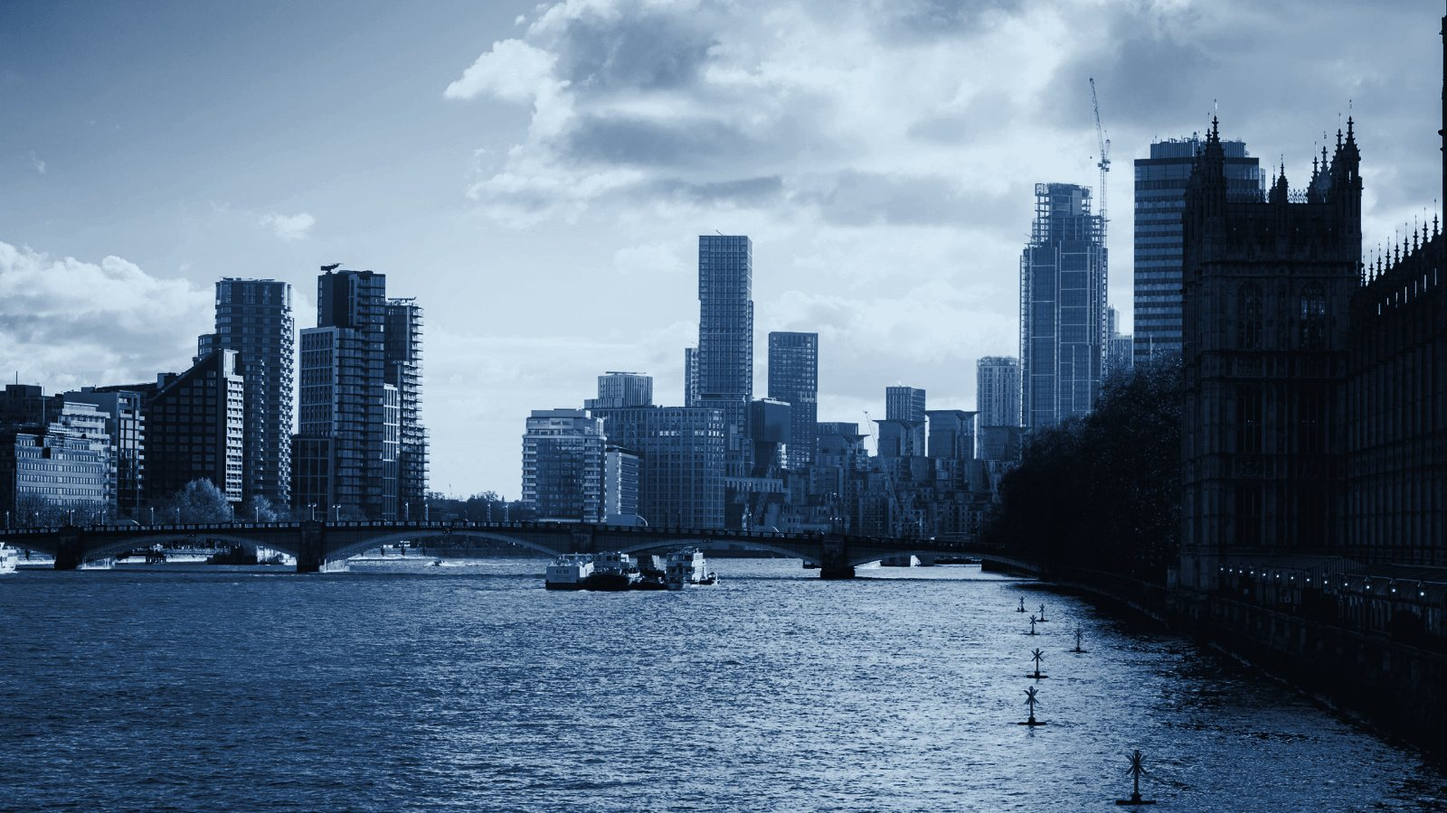
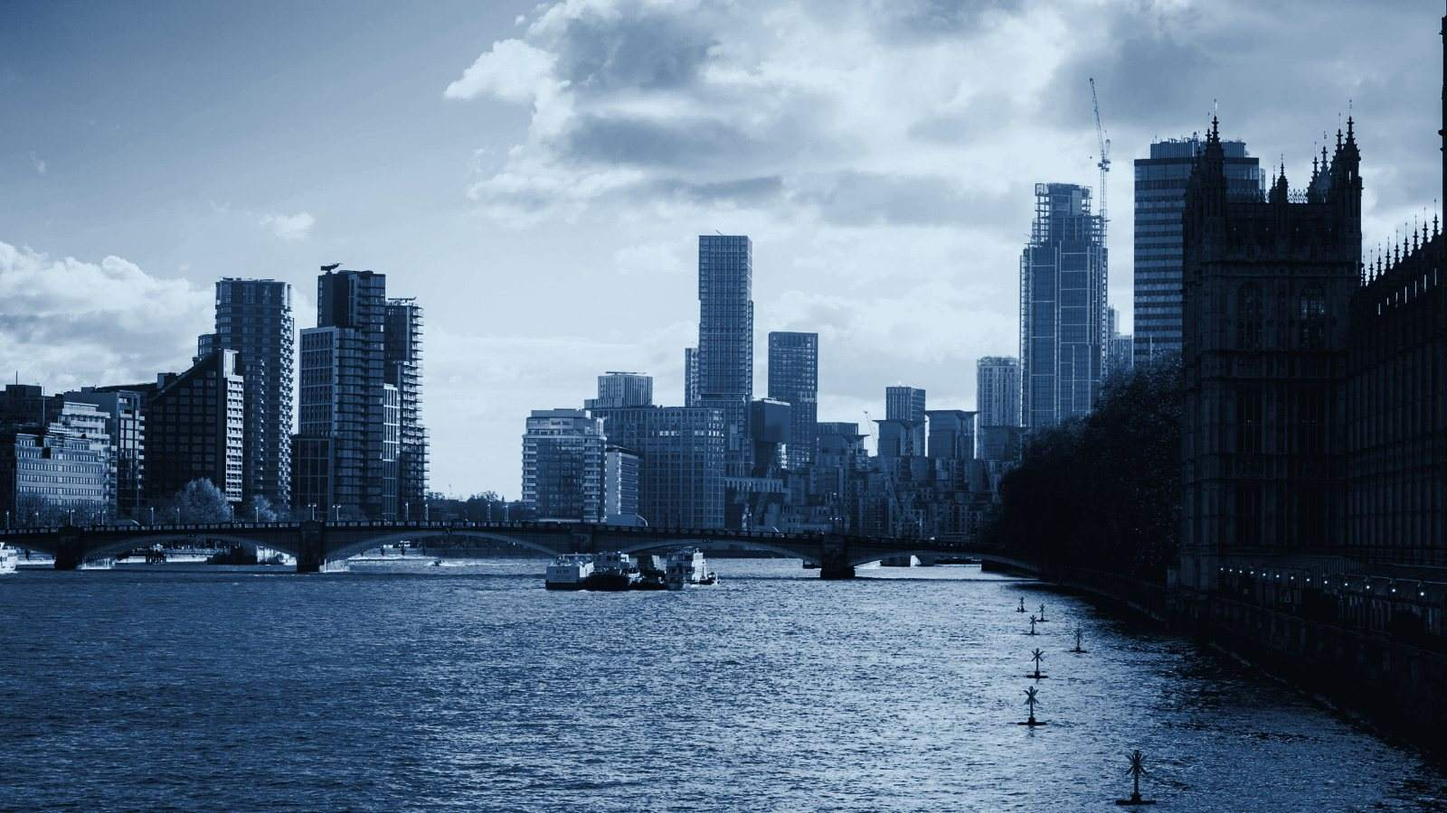
Search and AI answers: labels, titles, questions, old addresses forwarded, smaller pictures
Structured data on every main page (the business, Aneal, the services, the platform
and its three prices, and the questions), clearer page titles, a questions section
on the home, CV score and platform pages, the old Kajabi addresses forwarding to
their nearest page, llms.txt, a dated sitemap and lighter background pictures.
Aneal: 'Please can you nail the SEO / GEO and launch it'.

Claude-Session: https://claude.ai/code/session_011VD4uGPY8jUHXt17ZwRrVE

diff --git a/job-search-os.html b/job-search-os.html
@@ -3,14 +3,14 @@
 <head>
 <meta charset="utf-8">
 <meta name="viewport" content="width=device-width, initial-scale=1">
-<title>Job Search OS | CareerVive</title>
+<title>Job Search OS: your CV, job search and interview prep in one platform | CareerVive</title>
 <link rel="canonical" href="https://www.careervive.io/job-search-os">
 <link rel="icon" type="image/png" href="/img/icon-32.png">
 <link rel="apple-touch-icon" href="/img/icon-180.png">
 <meta name="theme-color" content="#05080D">
 <meta property="og:type" content="website">
 <meta property="og:site_name" content="CareerVive">
-<meta property="og:title" content="Job Search OS | CareerVive">
+<meta property="og:title" content="Job Search OS: your CV, job search and interview prep in one platform | CareerVive">
 <meta property="og:description" content="Job Search OS is the CareerVive platform. It draws out the work you are proud of, writes your CV for the job you want, and keeps your whole job search in one place.">
 <meta property="og:url" content="https://www.careervive.io/job-search-os">
 <meta property="og:image" content="https://www.careervive.io/img/og.jpg">
@@ -559,7 +559,8 @@ a.cv-wk b svg{flex:0 0 auto;color:var(--a)}
 .cv-bg-teach{background-image:url(/img/cv-teach.jpg)}.cv-fl-teach::after{background-image:url(/img/cv-teach.jpg)}
 .cv-bg-aneal{background-image:url(/img/cv-aneal.jpg)}.cv-fl-aneal::after{background-image:url(/img/cv-aneal.jpg)}
 .cv-bg-aneals{background-image:url(/img/cv-aneal-s.jpg)}.cv-fl-aneals::after{background-image:url(/img/cv-aneal-s.jpg)}
-.cv-stats.cv-jos{grid-template-columns:repeat(2,minmax(0,1fr))}.cv-stats.cv-jos .cv-stat b{font-size:clamp(21px,2vw,26px);line-height:1.25;letter-spacing:0}@media(max-width:760px){.cv-stats.cv-jos{grid-template-columns:1fr}}.cv-stats.cv-jos>.rv:last-child:nth-child(odd){grid-column:1/-1}.cv-plans{display:grid;grid-template-columns:repeat(3,minmax(0,1fr));gap:18px;margin-bottom:32px}.cv-plan{height:100%;box-sizing:border-box;background:#FFFFFF;border:1px solid rgba(20,48,78,0.16);border-top:4px solid #2D5380;border-radius:20px;padding:28px 26px;color:#14304E}.cv-plan-n{font-family:"PT Serif",Georgia,serif;font-weight:700;font-size:22px}.cv-plan-p{font-family:"PT Serif",Georgia,serif;font-weight:700;font-size:44px;line-height:1.1;margin-top:10px}.cv-plan-p span{font-family:Lato,system-ui,sans-serif;font-weight:400;font-size:16px}.cv-plan-t{font-size:15px;margin-top:4px;opacity:0.8}.cv-plan ul{margin:18px 0 0;padding-left:20px;font-size:16px;line-height:1.5}.cv-plan li{margin-bottom:8px}@media(max-width:860px){.cv-plans{grid-template-columns:1fr}}</style>
+.cv-stats.cv-jos{grid-template-columns:repeat(2,minmax(0,1fr))}.cv-stats.cv-jos .cv-stat b{font-size:clamp(21px,2vw,26px);line-height:1.25;letter-spacing:0}@media(max-width:760px){.cv-stats.cv-jos{grid-template-columns:1fr}}.cv-stats.cv-jos>.rv:last-child:nth-child(odd){grid-column:1/-1}.cv-plans{display:grid;grid-template-columns:repeat(3,minmax(0,1fr));gap:18px;margin-bottom:32px}.cv-plan{height:100%;box-sizing:border-box;background:#FFFFFF;border:1px solid rgba(20,48,78,0.16);border-top:4px solid #2D5380;border-radius:20px;padding:28px 26px;color:#14304E}.cv-plan-n{font-family:"PT Serif",Georgia,serif;font-weight:700;font-size:22px}.cv-plan-p{font-family:"PT Serif",Georgia,serif;font-weight:700;font-size:44px;line-height:1.1;margin-top:10px}.cv-plan-p span{font-family:Lato,system-ui,sans-serif;font-weight:400;font-size:16px}.cv-plan-t{font-size:15px;margin-top:4px;opacity:0.8}.cv-plan ul{margin:18px 0 0;padding-left:20px;font-size:16px;line-height:1.5}.cv-plan li{margin-bottom:8px}@media(max-width:860px){.cv-plans{grid-template-columns:1fr}}.cv-faq{max-width:820px;display:block}.cv-faq .cv-h2{margin:0 0 22px}.cv-faq details{border-top:1px solid rgba(20,48,78,0.18);padding:16px 0}.cv-faq details:last-child{border-bottom:1px solid rgba(20,48,78,0.18)}.cv-faq summary{cursor:pointer;font-family:"PT Serif",Georgia,serif;font-weight:700;font-size:19px;line-height:1.35}.cv-faq p{margin:10px 0 0;font-size:17px;line-height:1.6}</style>
+<script type="application/ld+json">{"@context": "https://schema.org", "@graph": [{"@type": "SoftwareApplication", "name": "Job Search OS", "applicationCategory": "BusinessApplication", "operatingSystem": "Web", "url": "https://www.careervive.io/job-search-os", "description": "The CareerVive platform: discover your STORY, write your CV, search for jobs across LinkedIn, Reed, Indeed and more, and write cover letters and application answers from your own evidence.", "publisher": {"@id": "https://www.careervive.io/#org"}, "offers": [{"@type": "Offer", "name": "Membership", "price": "49.00", "priceCurrency": "GBP", "url": "https://www.careervive.io/job-search-os#plans", "description": "Per month. Your STORY, your CV, job search and tracking."}, {"@type": "Offer", "name": "Premium", "price": "69.00", "priceCurrency": "GBP", "url": "https://www.careervive.io/job-search-os#plans", "description": "Per month. Adds cover letters and application answers."}, {"@type": "Offer", "name": "Premium+", "price": "99.00", "priceCurrency": "GBP", "url": "https://www.careervive.io/job-search-os#plans", "description": "Per month. Adds screening and interview prep, and the Coach for your whole search."}]}, {"@type": "FAQPage", "mainEntity": [{"@type": "Question", "name": "What is Job Search OS?", "acceptedAnswer": {"@type": "Answer", "text": "Job Search OS is the CareerVive platform. It draws out the work you are proud of, writes your CV for the job you want, searches for roles, and writes your cover letters and application answers from the same evidence."}}, {"@type": "Question", "name": "How much is Job Search OS?", "acceptedAnswer": {"@type": "Answer", "text": "Membership is £49 a month, or £119 for three months. Premium is £69 a month, or £149 for three months. Premium+ is £99 a month, or £249 for three months. You can cancel at any time."}}, {"@type": "Question", "name": "What is the STORY method?", "acceptedAnswer": {"@type": "Answer", "text": "STORY is Aneal Birdi's way of capturing your best work in your own words: the Situation, the Task, the Obstacles, the Results and why it mattered. Your CV, cover letters and answers are written from your STORYs."}}, {"@type": "Question", "name": "Which job sites does it search?", "acceptedAnswer": {"@type": "Answer", "text": "One search looks across LinkedIn, Reed, Indeed, the UK job boards, agencies and employers' own pages, and shows each role once."}}, {"@type": "Question", "name": "Does it make anything up on my CV?", "acceptedAnswer": {"@type": "Answer", "text": "No. Everything is written from what you have told the Coach, and every figure is checked against what you said."}}, {"@type": "Question", "name": "How do I start?", "acceptedAnswer": {"@type": "Answer", "text": "Start with the free CV score. Your score opens your account on the platform."}}, {"@type": "Question", "name": "What happens to my data?", "acceptedAnswer": {"@type": "Answer", "text": "Your CV, your STORYs and your conversations with the Coach are used for your job search and nothing else. You can download or delete everything at any time."}}]}]}</script>
 </head>
 <body>
 <div style="background: radial-gradient(ellipse 60% 40% at 15% 20%, rgba(45,83,128,0.24), transparent 60%), radial-gradient(ellipse 55% 45% at 85% 65%, rgba(74,143,178,0.16), transparent 60%), linear-gradient(180deg, #05080D 0%, #070B12 55%, #05070A 100%); background-attachment: fixed; color: #F5F3EE; font-family: Lato, system-ui, sans-serif; overflow-x: hidden">
@@ -755,6 +756,19 @@ a.cv-wk b svg{flex:0 0 auto;color:var(--a)}
 <a href="/rise" class="cv-wk"><b><span>Coaching</span><svg width="18" height="18" viewBox="0 0 24 24" fill="none" stroke="currentColor" stroke-width="2.4" stroke-linecap="round" stroke-linejoin="round" aria-hidden="true"><path d="M5 12h14"></path><path d="M13 6l6 6-6 6"></path></svg></b><span>Rise, reposition or build, when you want us alongside you.</span></a>
 </div>
 </div>
+</div>
+</section>
+
+<section id="questions" class="cv-lt">
+<div class="cv-w cv-faq">
+<h2 class="cv-h2">Questions people ask.</h2>
+<details><summary>What is Job Search OS?</summary><p>Job Search OS is the CareerVive platform. It draws out the work you are proud of, writes your CV for the job you want, searches for roles, and writes your cover letters and application answers from the same evidence.</p></details>
+<details><summary>How much is Job Search OS?</summary><p>Membership is £49 a month, or £119 for three months. Premium is £69 a month, or £149 for three months. Premium+ is £99 a month, or £249 for three months. You can cancel at any time.</p></details>
+<details><summary>What is the STORY method?</summary><p>STORY is Aneal Birdi's way of capturing your best work in your own words: the Situation, the Task, the Obstacles, the Results and why it mattered. Your CV, cover letters and answers are written from your STORYs.</p></details>
+<details><summary>Which job sites does it search?</summary><p>One search looks across LinkedIn, Reed, Indeed, the UK job boards, agencies and employers' own pages, and shows each role once.</p></details>
+<details><summary>Does it make anything up on my CV?</summary><p>No. Everything is written from what you have told the Coach, and every figure is checked against what you said.</p></details>
+<details><summary>How do I start?</summary><p>Start with the free CV score. Your score opens your account on the platform.</p></details>
+<details><summary>What happens to my data?</summary><p>Your CV, your STORYs and your conversations with the Coach are used for your job search and nothing else. You can download or delete everything at any time.</p></details>
 </div>
 </section>
 

diff --git a/index.html b/index.html
@@ -3,14 +3,14 @@
 <head>
 <meta charset="utf-8">
 <meta name="viewport" content="width=device-width, initial-scale=1">
-<title>CareerVive | We make your career fly</title>
+<title>CareerVive | Career coaching and a job search platform for professionals</title>
 <link rel="canonical" href="https://www.careervive.io/">
 <link rel="icon" type="image/png" href="/img/icon-32.png">
 <link rel="apple-touch-icon" href="/img/icon-180.png">
 <meta name="theme-color" content="#05080D">
 <meta property="og:type" content="website">
 <meta property="og:site_name" content="CareerVive">
-<meta property="og:title" content="CareerVive | We make your career fly">
+<meta property="og:title" content="CareerVive | Career coaching and a job search platform for professionals">
 <meta property="og:description" content="We make your career fly. Building the future of work, starting with you. Rise, reposition or build with Aneal Birdi, and start with a free CV score.">
 <meta property="og:url" content="https://www.careervive.io/">
 <meta property="og:image" content="https://www.careervive.io/img/og.jpg">
@@ -559,7 +559,8 @@ a.cv-wk b svg{flex:0 0 auto;color:var(--a)}
 .cv-bg-teach{background-image:url(/img/cv-teach.jpg)}.cv-fl-teach::after{background-image:url(/img/cv-teach.jpg)}
 .cv-bg-aneal{background-image:url(/img/cv-aneal.jpg)}.cv-fl-aneal::after{background-image:url(/img/cv-aneal.jpg)}
 .cv-bg-aneals{background-image:url(/img/cv-aneal-s.jpg)}.cv-fl-aneals::after{background-image:url(/img/cv-aneal-s.jpg)}
-</style>
+.cv-faq{max-width:820px;display:block}.cv-faq .cv-h2{margin:0 0 22px}.cv-faq details{border-top:1px solid rgba(20,48,78,0.18);padding:16px 0}.cv-faq details:last-child{border-bottom:1px solid rgba(20,48,78,0.18)}.cv-faq summary{cursor:pointer;font-family:"PT Serif",Georgia,serif;font-weight:700;font-size:19px;line-height:1.35}.cv-faq p{margin:10px 0 0;font-size:17px;line-height:1.6}</style>
+<script type="application/ld+json">{"@context": "https://schema.org", "@graph": [{"@type": ["Organization", "ProfessionalService"], "@id": "https://www.careervive.io/#org", "name": "CareerVive", "url": "https://www.careervive.io/", "logo": "https://www.careervive.io/img/cv-logo.png", "image": "https://www.careervive.io/img/og.jpg", "slogan": "We make your career fly.", "description": "CareerVive is career coaching, leadership and AI training, and a job search platform, founded by Aneal Birdi in 2019.", "foundingDate": "2019", "founder": {"@id": "https://www.careervive.io/about#aneal"}, "address": {"@type": "PostalAddress", "addressLocality": "Birmingham", "addressCountry": "GB"}, "areaServed": "GB", "email": "aneal@careervive.io", "sameAs": ["https://uk.trustpilot.com/review/careervive.co.uk"]}, {"@type": "Person", "@id": "https://www.careervive.io/about#aneal", "name": "Aneal Birdi", "jobTitle": "Founder, CareerVive", "url": "https://www.careervive.io/about", "image": "https://www.careervive.io/img/cv-aneal.jpg", "worksFor": {"@id": "https://www.careervive.io/#org"}, "description": "Aneal Birdi founded CareerVive in 2019 after 13 years in investment banking and consulting, including Goldman Sachs. He has had more than 2,000 career conversations since then."}, {"@type": "WebSite", "@id": "https://www.careervive.io/#site", "url": "https://www.careervive.io/", "name": "CareerVive", "publisher": {"@id": "https://www.careervive.io/#org"}}, {"@type": "FAQPage", "mainEntity": [{"@type": "Question", "name": "What is CareerVive?", "acceptedAnswer": {"@type": "Answer", "text": "CareerVive is career coaching, leadership and AI training, and a job search platform. Aneal Birdi founded it in Birmingham in 2019."}}, {"@type": "Question", "name": "Who is Aneal Birdi?", "acceptedAnswer": {"@type": "Answer", "text": "Aneal is the founder of CareerVive. He spent 13 years in investment banking and consulting, including Goldman Sachs, and has had more than 2,000 career conversations since 2019."}}, {"@type": "Question", "name": "What are Rise, Reposition and Build?", "acceptedAnswer": {"@type": "Answer", "text": "They are CareerVive's three coaching paths. Rise is for going higher where you already are. Reposition is for changing direction without starting over. Build is for turning what you know into something that earns."}}, {"@type": "Question", "name": "How do I start with CareerVive?", "acceptedAnswer": {"@type": "Answer", "text": "Start with the free CV score. You add your CV and the job you want, and your score for today's job market and the future one comes to your inbox."}}]}]}</script>
 </head>
 <body>
 <div style="background: radial-gradient(ellipse 60% 40% at 15% 20%, rgba(45,83,128,0.24), transparent 60%), radial-gradient(ellipse 55% 45% at 85% 65%, rgba(74,143,178,0.16), transparent 60%), linear-gradient(180deg, #05080D 0%, #070B12 55%, #05070A 100%); background-attachment: fixed; color: #F5F3EE; font-family: Lato, system-ui, sans-serif; overflow-x: hidden">
@@ -634,6 +635,16 @@ a.cv-wk b svg{flex:0 0 auto;color:var(--a)}
 <a href="/build" class="cv-hpt cv-hpt-build"><span class="cv-hpx"><b>Build</b><span>Turn what you know into something that earns</span></span><svg width="18" height="18" viewBox="0 0 24 24" fill="none" stroke="currentColor" stroke-width="2.4" stroke-linecap="round" stroke-linejoin="round" aria-hidden="true"><path d="M5 12h14"></path><path d="M13 6l6 6-6 6"></path></svg></a>
 </nav>
 </div>
+</div>
+</section>
+
+<section id="questions" class="cv-lt">
+<div class="cv-w cv-faq">
+<h2 class="cv-h2">Questions people ask.</h2>
+<details><summary>What is CareerVive?</summary><p>CareerVive is career coaching, leadership and AI training, and a job search platform. Aneal Birdi founded it in Birmingham in 2019.</p></details>
+<details><summary>Who is Aneal Birdi?</summary><p>Aneal is the founder of CareerVive. He spent 13 years in investment banking and consulting, including Goldman Sachs, and has had more than 2,000 career conversations since 2019.</p></details>
+<details><summary>What are Rise, Reposition and Build?</summary><p>They are CareerVive's three coaching paths. Rise is for going higher where you already are. Reposition is for changing direction without starting over. Build is for turning what you know into something that earns.</p></details>
+<details><summary>How do I start with CareerVive?</summary><p>Start with the free CV score. You add your CV and the job you want, and your score for today's job market and the future one comes to your inbox.</p></details>
 </div>
 </section>
 

diff --git a/cv-score.html b/cv-score.html
@@ -3,14 +3,14 @@
 <head>
 <meta charset="utf-8">
 <meta name="viewport" content="width=device-width, initial-scale=1">
-<title>Free CV score | CareerVive</title>
+<title>Free CV score out of 100 | CareerVive</title>
 <link rel="canonical" href="https://www.careervive.io/cv-score">
 <link rel="icon" type="image/png" href="/img/icon-32.png">
 <link rel="apple-touch-icon" href="/img/icon-180.png">
 <meta name="theme-color" content="#05080D">
 <meta property="og:type" content="website">
 <meta property="og:site_name" content="CareerVive">
-<meta property="og:title" content="Free CV score | CareerVive">
+<meta property="og:title" content="Free CV score out of 100 | CareerVive">
 <meta property="og:description" content="Find out why your CV is not landing as it should. Add your CV and get a free score out of 100 for today's job market and the future one, with the three changes to make first.">
 <meta property="og:url" content="https://www.careervive.io/cv-score">
 <meta property="og:image" content="https://www.careervive.io/img/og.jpg">
@@ -559,7 +559,8 @@ a.cv-wk b svg{flex:0 0 auto;color:var(--a)}
 .cv-bg-teach{background-image:url(/img/cv-teach.jpg)}.cv-fl-teach::after{background-image:url(/img/cv-teach.jpg)}
 .cv-bg-aneal{background-image:url(/img/cv-aneal.jpg)}.cv-fl-aneal::after{background-image:url(/img/cv-aneal.jpg)}
 .cv-bg-aneals{background-image:url(/img/cv-aneal-s.jpg)}.cv-fl-aneals::after{background-image:url(/img/cv-aneal-s.jpg)}
-</style>
+.cv-faq{max-width:820px;display:block}.cv-faq .cv-h2{margin:0 0 22px}.cv-faq details{border-top:1px solid rgba(20,48,78,0.18);padding:16px 0}.cv-faq details:last-child{border-bottom:1px solid rgba(20,48,78,0.18)}.cv-faq summary{cursor:pointer;font-family:"PT Serif",Georgia,serif;font-weight:700;font-size:19px;line-height:1.35}.cv-faq p{margin:10px 0 0;font-size:17px;line-height:1.6}</style>
+<script type="application/ld+json">{"@context": "https://schema.org", "@graph": [{"@type": "Service", "name": "Free CV score", "description": "A free score out of 100 for your CV, for today's job market and the future one, with the three changes to make first.", "url": "https://www.careervive.io/cv-score", "provider": {"@id": "https://www.careervive.io/#org"}, "areaServed": "GB"}, {"@type": "FAQPage", "mainEntity": [{"@type": "Question", "name": "Is the CV score free?", "acceptedAnswer": {"@type": "Answer", "text": "Yes. The CV score is free, and there is one CV score per person."}}, {"@type": "Question", "name": "What do I get with my CV score?", "acceptedAnswer": {"@type": "Answer", "text": "You get a score out of 100 for today's job market and one for the future job market, across four parts: Clarity, Positioning, Future desirability and Strategy. You also get the three changes to make first."}}, {"@type": "Question", "name": "What file can I send?", "acceptedAnswer": {"@type": "Answer", "text": "A Word or PDF file of up to six pages. Send your CV as it is today."}}, {"@type": "Question", "name": "How do I get my score?", "acceptedAnswer": {"@type": "Answer", "text": "You get an email with a link to your score on the CareerVive platform. The link lasts 7 days."}}, {"@type": "Question", "name": "What happens to my CV?", "acceptedAnswer": {"@type": "Answer", "text": "Your score, your report and the text of your CV go into your own space on the CareerVive platform. If you don't open it, it is all deleted after 30 days."}}, {"@type": "Question", "name": "Does a higher score mean I will get interviews?", "acceptedAnswer": {"@type": "Answer", "text": "The score is for your CV. It is never a score for you. A higher score means your CV shows more of you. It is not a promise of interviews."}}]}]}</script>
 </head>
 <body>
 <div style="background: radial-gradient(ellipse 60% 40% at 15% 20%, rgba(45,83,128,0.24), transparent 60%), radial-gradient(ellipse 55% 45% at 85% 65%, rgba(74,143,178,0.16), transparent 60%), linear-gradient(180deg, #05080D 0%, #070B12 55%, #05070A 100%); background-attachment: fixed; color: #F5F3EE; font-family: Lato, system-ui, sans-serif; overflow-x: hidden">
@@ -683,6 +684,18 @@ a.cv-wk b svg{flex:0 0 auto;color:var(--a)}
 </div>
 </div>
 <div class="cvs-note"><img src="/img/cv-aneal-s.jpg" alt="Aneal Birdi" width="64" height="64"><div><p class="cvs-nq">“Can we just focus on starting, instead of focusing on finishing?”</p><p class="cvs-na">Your CV doesn't need to be finished. Send it as it is today.</p><p class="cvs-nc">Aneal Birdi, Founder, CareerVive</p></div></div>
+</div>
+</section>
+
+<section id="questions" class="cv-lt">
+<div class="cv-w cv-faq">
+<h2 class="cv-h2">Questions people ask.</h2>
+<details><summary>Is the CV score free?</summary><p>Yes. The CV score is free, and there is one CV score per person.</p></details>
+<details><summary>What do I get with my CV score?</summary><p>You get a score out of 100 for today's job market and one for the future job market, across four parts: Clarity, Positioning, Future desirability and Strategy. You also get the three changes to make first.</p></details>
+<details><summary>What file can I send?</summary><p>A Word or PDF file of up to six pages. Send your CV as it is today.</p></details>
+<details><summary>How do I get my score?</summary><p>You get an email with a link to your score on the CareerVive platform. The link lasts 7 days.</p></details>
+<details><summary>What happens to my CV?</summary><p>Your score, your report and the text of your CV go into your own space on the CareerVive platform. If you don't open it, it is all deleted after 30 days.</p></details>
+<details><summary>Does a higher score mean I will get interviews?</summary><p>The score is for your CV. It is never a score for you. A higher score means your CV shows more of you. It is not a promise of interviews.</p></details>
 </div>
 </section>
 

diff --git a/build.html b/build.html
@@ -3,19 +3,19 @@
 <head>
 <meta charset="utf-8">
 <meta name="viewport" content="width=device-width, initial-scale=1">
-<title>Build | CareerVive</title>
+<title>Build: turn what you know into a business | CareerVive</title>
 <link rel="canonical" href="https://www.careervive.io/build">
 <link rel="icon" type="image/png" href="/img/icon-32.png">
 <link rel="apple-touch-icon" href="/img/icon-180.png">
 <meta name="theme-color" content="#05080D">
 <meta property="og:type" content="website">
 <meta property="og:site_name" content="CareerVive">
-<meta property="og:title" content="Build | CareerVive">
-<meta property="og:description" content="Build turns what you know into a service that pays you, on your terms.">
+<meta property="og:title" content="Build: turn what you know into a business | CareerVive">
+<meta property="og:description" content="Build is CareerVive&#x27;s coaching path for professionals who want to turn what they know into a business that frees their time.">
 <meta property="og:url" content="https://www.careervive.io/build">
 <meta property="og:image" content="https://www.careervive.io/img/og.jpg">
 <meta name="twitter:card" content="summary_large_image">
-<meta name="description" content="Build turns what you know into a service that pays you, on your terms.">
+<meta name="description" content="Build is CareerVive&#x27;s coaching path for professionals who want to turn what they know into a business that frees their time.">
 <link rel="stylesheet" href="https://fonts.googleapis.com/css2?family=Cinzel:wght@500;600;700&amp;family=PT+Serif:ital,wght@0,400;0,700;1,400;1,700&amp;family=Lato:ital,wght@0,400;0,700;1,400&amp;display=swap">
 <style>
 .cvjs:not(.cvgo) *,.cvjs:not(.cvgo) *::before,.cvjs:not(.cvgo) *::after{transition:none!important}
@@ -560,6 +560,7 @@ a.cv-wk b svg{flex:0 0 auto;color:var(--a)}
 .cv-bg-aneal{background-image:url(/img/cv-aneal.jpg)}.cv-fl-aneal::after{background-image:url(/img/cv-aneal.jpg)}
 .cv-bg-aneals{background-image:url(/img/cv-aneal-s.jpg)}.cv-fl-aneals::after{background-image:url(/img/cv-aneal-s.jpg)}
 </style>
+<script type="application/ld+json">{"@context": "https://schema.org", "@graph": [{"@type": "Service", "name": "Build coaching", "description": "Coaching for professionals who want to turn what they know into something that earns.", "url": "https://www.careervive.io/build", "provider": {"@id": "https://www.careervive.io/#org"}, "areaServed": "GB"}]}</script>
 </head>
 <body>
 <div style="background: radial-gradient(ellipse 60% 40% at 15% 20%, rgba(45,83,128,0.24), transparent 60%), radial-gradient(ellipse 55% 45% at 85% 65%, rgba(74,143,178,0.16), transparent 60%), linear-gradient(180deg, #05080D 0%, #070B12 55%, #05070A 100%); background-attachment: fixed; color: #F5F3EE; font-family: Lato, system-ui, sans-serif; overflow-x: hidden">

diff --git a/about.html b/about.html
@@ -3,14 +3,14 @@
 <head>
 <meta charset="utf-8">
 <meta name="viewport" content="width=device-width, initial-scale=1">
-<title>About | CareerVive</title>
+<title>About Aneal Birdi, founder of CareerVive</title>
 <link rel="canonical" href="https://www.careervive.io/about">
 <link rel="icon" type="image/png" href="/img/icon-32.png">
 <link rel="apple-touch-icon" href="/img/icon-180.png">
 <meta name="theme-color" content="#05080D">
 <meta property="og:type" content="website">
 <meta property="og:site_name" content="CareerVive">
-<meta property="og:title" content="About | CareerVive">
+<meta property="og:title" content="About Aneal Birdi, founder of CareerVive">
 <meta property="og:description" content="I started CareerVive in 2019. I want people to be on a path where they find purpose in what they do.">
 <meta property="og:url" content="https://www.careervive.io/about">
 <meta property="og:image" content="https://www.careervive.io/img/og.jpg">
@@ -560,6 +560,7 @@ a.cv-wk b svg{flex:0 0 auto;color:var(--a)}
 .cv-bg-aneal{background-image:url(/img/cv-aneal.jpg)}.cv-fl-aneal::after{background-image:url(/img/cv-aneal.jpg)}
 .cv-bg-aneals{background-image:url(/img/cv-aneal-s.jpg)}.cv-fl-aneals::after{background-image:url(/img/cv-aneal-s.jpg)}
 </style>
+<script type="application/ld+json">{"@context": "https://schema.org", "@graph": [{"@type": "Person", "@id": "https://www.careervive.io/about#aneal", "name": "Aneal Birdi", "jobTitle": "Founder, CareerVive", "url": "https://www.careervive.io/about", "image": "https://www.careervive.io/img/cv-aneal.jpg", "worksFor": {"@id": "https://www.careervive.io/#org"}, "description": "Aneal Birdi founded CareerVive in 2019 after 13 years in investment banking and consulting, including Goldman Sachs. He has had more than 2,000 career conversations since then."}, {"@type": "AboutPage", "url": "https://www.careervive.io/about", "about": {"@id": "https://www.careervive.io/about#aneal"}}]}</script>
 </head>
 <body>
 <div style="background: radial-gradient(ellipse 60% 40% at 15% 20%, rgba(45,83,128,0.24), transparent 60%), radial-gradient(ellipse 55% 45% at 85% 65%, rgba(74,143,178,0.16), transparent 60%), linear-gradient(180deg, #05080D 0%, #070B12 55%, #05070A 100%); background-attachment: fixed; color: #F5F3EE; font-family: Lato, system-ui, sans-serif; overflow-x: hidden">

diff --git a/reposition.html b/reposition.html
@@ -3,14 +3,14 @@
 <head>
 <meta charset="utf-8">
 <meta name="viewport" content="width=device-width, initial-scale=1">
-<title>Reposition | CareerVive</title>
+<title>Reposition: change career direction without starting over | CareerVive</title>
 <link rel="canonical" href="https://www.careervive.io/reposition">
 <link rel="icon" type="image/png" href="/img/icon-32.png">
 <link rel="apple-touch-icon" href="/img/icon-180.png">
 <meta name="theme-color" content="#05080D">
 <meta property="og:type" content="website">
 <meta property="og:site_name" content="CareerVive">
-<meta property="og:title" content="Reposition | CareerVive">
+<meta property="og:title" content="Reposition: change career direction without starting over | CareerVive">
 <meta property="og:description" content="Reposition is for people who are done doing what they have been doing. You change direction without starting over.">
 <meta property="og:url" content="https://www.careervive.io/reposition">
 <meta property="og:image" content="https://www.careervive.io/img/og.jpg">
@@ -560,6 +560,7 @@ a.cv-wk b svg{flex:0 0 auto;color:var(--a)}
 .cv-bg-aneal{background-image:url(/img/cv-aneal.jpg)}.cv-fl-aneal::after{background-image:url(/img/cv-aneal.jpg)}
 .cv-bg-aneals{background-image:url(/img/cv-aneal-s.jpg)}.cv-fl-aneals::after{background-image:url(/img/cv-aneal-s.jpg)}
 </style>
+<script type="application/ld+json">{"@context": "https://schema.org", "@graph": [{"@type": "Service", "name": "Reposition career coaching", "description": "Coaching for professionals who want to change direction without starting over.", "url": "https://www.careervive.io/reposition", "provider": {"@id": "https://www.careervive.io/#org"}, "areaServed": "GB"}]}</script>
 </head>
 <body>
 <div style="background: radial-gradient(ellipse 60% 40% at 15% 20%, rgba(45,83,128,0.24), transparent 60%), radial-gradient(ellipse 55% 45% at 85% 65%, rgba(74,143,178,0.16), transparent 60%), linear-gradient(180deg, #05080D 0%, #070B12 55%, #05070A 100%); background-attachment: fixed; color: #F5F3EE; font-family: Lato, system-ui, sans-serif; overflow-x: hidden">

diff --git a/training.html b/training.html
@@ -3,14 +3,14 @@
 <head>
 <meta charset="utf-8">
 <meta name="viewport" content="width=device-width, initial-scale=1">
-<title>Training | CareerVive</title>
+<title>Leadership and AI training for your next role | CareerVive</title>
 <link rel="canonical" href="https://www.careervive.io/training">
 <link rel="icon" type="image/png" href="/img/icon-32.png">
 <link rel="apple-touch-icon" href="/img/icon-180.png">
 <meta name="theme-color" content="#05080D">
 <meta property="og:type" content="website">
 <meta property="og:site_name" content="CareerVive">
-<meta property="og:title" content="Training | CareerVive">
+<meta property="og:title" content="Leadership and AI training for your next role | CareerVive">
 <meta property="og:description" content="Reaching a higher level is one thing. Delivering at it is another. We teach the leadership and the AI skills your next role needs.">
 <meta property="og:url" content="https://www.careervive.io/training">
 <meta property="og:image" content="https://www.careervive.io/img/og.jpg">
@@ -560,6 +560,7 @@ a.cv-wk b svg{flex:0 0 auto;color:var(--a)}
 .cv-bg-aneal{background-image:url(/img/cv-aneal.jpg)}.cv-fl-aneal::after{background-image:url(/img/cv-aneal.jpg)}
 .cv-bg-aneals{background-image:url(/img/cv-aneal-s.jpg)}.cv-fl-aneals::after{background-image:url(/img/cv-aneal-s.jpg)}
 </style>
+<script type="application/ld+json">{"@context": "https://schema.org", "@graph": [{"@type": "Service", "name": "Leadership and AI training", "description": "Training in the leadership and AI skills your next role needs.", "url": "https://www.careervive.io/training", "provider": {"@id": "https://www.careervive.io/#org"}, "areaServed": "GB"}]}</script>
 </head>
 <body>
 <div style="background: radial-gradient(ellipse 60% 40% at 15% 20%, rgba(45,83,128,0.24), transparent 60%), radial-gradient(ellipse 55% 45% at 85% 65%, rgba(74,143,178,0.16), transparent 60%), linear-gradient(180deg, #05080D 0%, #070B12 55%, #05070A 100%); background-attachment: fixed; color: #F5F3EE; font-family: Lato, system-ui, sans-serif; overflow-x: hidden">

diff --git a/rise.html b/rise.html
@@ -3,14 +3,14 @@
 <head>
 <meta charset="utf-8">
 <meta name="viewport" content="width=device-width, initial-scale=1">
-<title>Rise | CareerVive</title>
+<title>Rise: career coaching to reach your next level | CareerVive</title>
 <link rel="canonical" href="https://www.careervive.io/rise">
 <link rel="icon" type="image/png" href="/img/icon-32.png">
 <link rel="apple-touch-icon" href="/img/icon-180.png">
 <meta name="theme-color" content="#05080D">
 <meta property="og:type" content="website">
 <meta property="og:site_name" content="CareerVive">
-<meta property="og:title" content="Rise | CareerVive">
+<meta property="og:title" content="Rise: career coaching to reach your next level | CareerVive">
 <meta property="og:description" content="Your full potential is bigger than a job title. Rise gets your full value seen at the seniority you have earned.">
 <meta property="og:url" content="https://www.careervive.io/rise">
 <meta property="og:image" content="https://www.careervive.io/img/og.jpg">
@@ -560,6 +560,7 @@ a.cv-wk b svg{flex:0 0 auto;color:var(--a)}
 .cv-bg-aneal{background-image:url(/img/cv-aneal.jpg)}.cv-fl-aneal::after{background-image:url(/img/cv-aneal.jpg)}
 .cv-bg-aneals{background-image:url(/img/cv-aneal-s.jpg)}.cv-fl-aneals::after{background-image:url(/img/cv-aneal-s.jpg)}
 </style>
+<script type="application/ld+json">{"@context": "https://schema.org", "@graph": [{"@type": "Service", "name": "Rise career coaching", "description": "Coaching for professionals who want to go higher where they already are.", "url": "https://www.careervive.io/rise", "provider": {"@id": "https://www.careervive.io/#org"}, "areaServed": "GB"}]}</script>
 </head>
 <body>
 <div style="background: radial-gradient(ellipse 60% 40% at 15% 20%, rgba(45,83,128,0.24), transparent 60%), radial-gradient(ellipse 55% 45% at 85% 65%, rgba(74,143,178,0.16), transparent 60%), linear-gradient(180deg, #05080D 0%, #070B12 55%, #05070A 100%); background-attachment: fixed; color: #F5F3EE; font-family: Lato, system-ui, sans-serif; overflow-x: hidden">

diff --git a/results.html b/results.html
@@ -3,19 +3,19 @@
 <head>
 <meta charset="utf-8">
 <meta name="viewport" content="width=device-width, initial-scale=1">
-<title>Results | CareerVive</title>
+<title>Client results and Trustpilot reviews | CareerVive</title>
 <link rel="canonical" href="https://www.careervive.io/results">
 <link rel="icon" type="image/png" href="/img/icon-32.png">
 <link rel="apple-touch-icon" href="/img/icon-180.png">
 <meta name="theme-color" content="#05080D">
 <meta property="og:type" content="website">
 <meta property="og:site_name" content="CareerVive">
-<meta property="og:title" content="Results | CareerVive">
-<meta property="og:description" content="CareerVive is rated Excellent on Trustpilot. These are our clients' words.">
+<meta property="og:title" content="Client results and Trustpilot reviews | CareerVive">
+<meta property="og:description" content="Real reviews from CareerVive clients on Trustpilot, in their own words.">
 <meta property="og:url" content="https://www.careervive.io/results">
 <meta property="og:image" content="https://www.careervive.io/img/og.jpg">
 <meta name="twitter:card" content="summary_large_image">
-<meta name="description" content="CareerVive is rated Excellent on Trustpilot. These are our clients' words.">
+<meta name="description" content="Real reviews from CareerVive clients on Trustpilot, in their own words.">
 <link rel="stylesheet" href="https://fonts.googleapis.com/css2?family=Cinzel:wght@500;600;700&amp;family=PT+Serif:ital,wght@0,400;0,700;1,400;1,700&amp;family=Lato:ital,wght@0,400;0,700;1,400&amp;display=swap">
 <style>
 .cvjs:not(.cvgo) *,.cvjs:not(.cvgo) *::before,.cvjs:not(.cvgo) *::after{transition:none!important}

diff --git a/login.html b/login.html
@@ -1,0 +1,14 @@
+<!doctype html>
+<html lang="en">
+<head>
+<meta charset="utf-8">
+<title>This page has moved | CareerVive</title>
+<meta name="robots" content="noindex">
+<link rel="canonical" href="https://app.careervive.io">
+<meta http-equiv="refresh" content="0; url=https://app.careervive.io">
+<script>window.location.replace("https://app.careervive.io");</script>
+</head>
+<body>
+<p>This page has moved. <a href="https://app.careervive.io">Continue to CareerVive</a>.</p>
+</body>
+</html>

diff --git a/platform.html b/platform.html
@@ -1,0 +1,14 @@
+<!doctype html>
+<html lang="en">
+<head>
+<meta charset="utf-8">
+<title>This page has moved | CareerVive</title>
+<meta name="robots" content="noindex">
+<link rel="canonical" href="https://www.careervive.io/job-search-os">
+<meta http-equiv="refresh" content="0; url=/job-search-os">
+<script>window.location.replace("/job-search-os");</script>
+</head>
+<body>
+<p>This page has moved. <a href="/job-search-os">Continue to CareerVive</a>.</p>
+</body>
+</html>

diff --git a/the-method.html b/the-method.html
@@ -1,0 +1,14 @@
+<!doctype html>
+<html lang="en">
+<head>
+<meta charset="utf-8">
+<title>This page has moved | CareerVive</title>
+<meta name="robots" content="noindex">
+<link rel="canonical" href="https://www.careervive.io/job-search-os">
+<meta http-equiv="refresh" content="0; url=/job-search-os">
+<script>window.location.replace("/job-search-os");</script>
+</head>
+<body>
+<p>This page has moved. <a href="/job-search-os">Continue to CareerVive</a>.</p>
+</body>
+</html>
